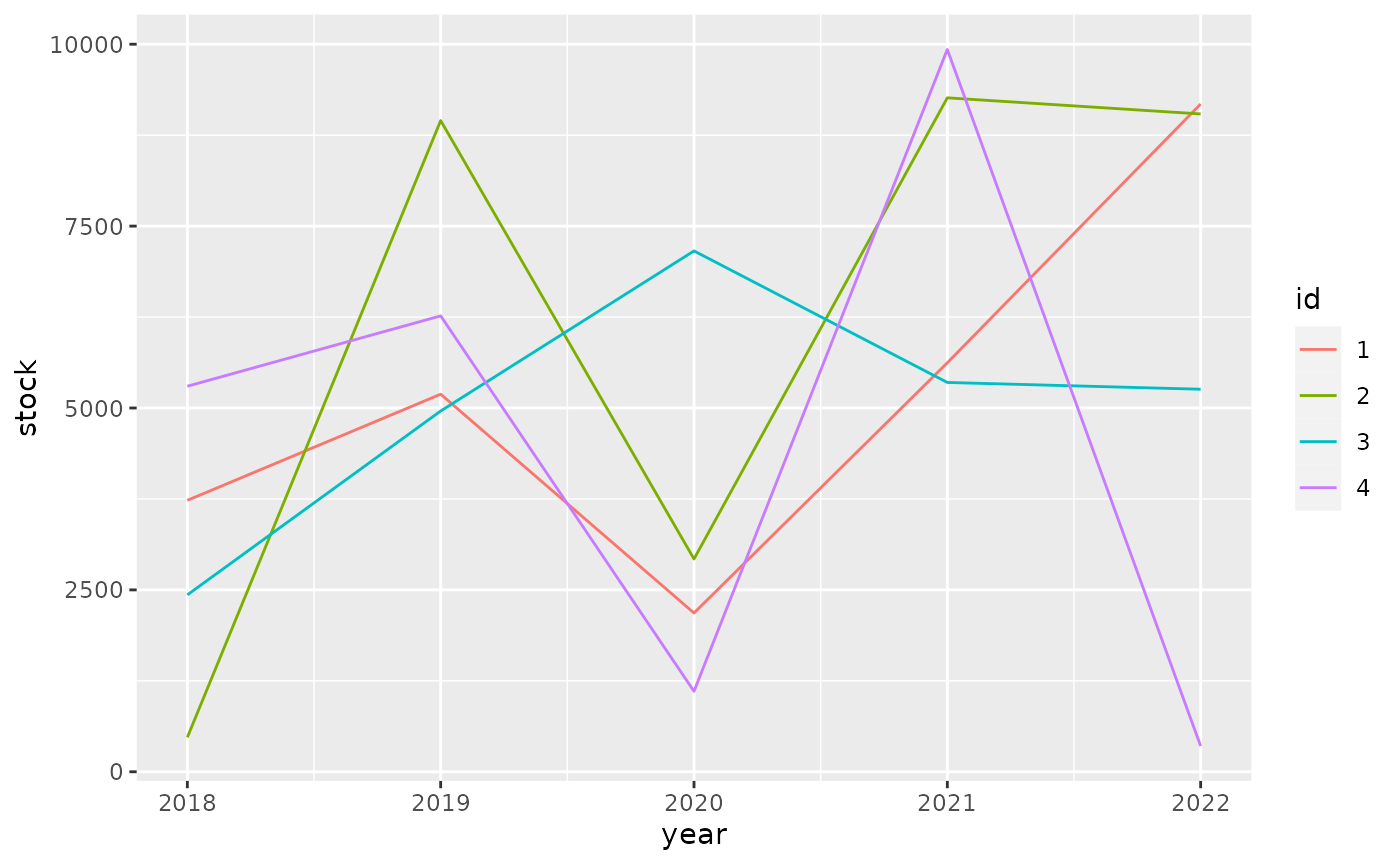
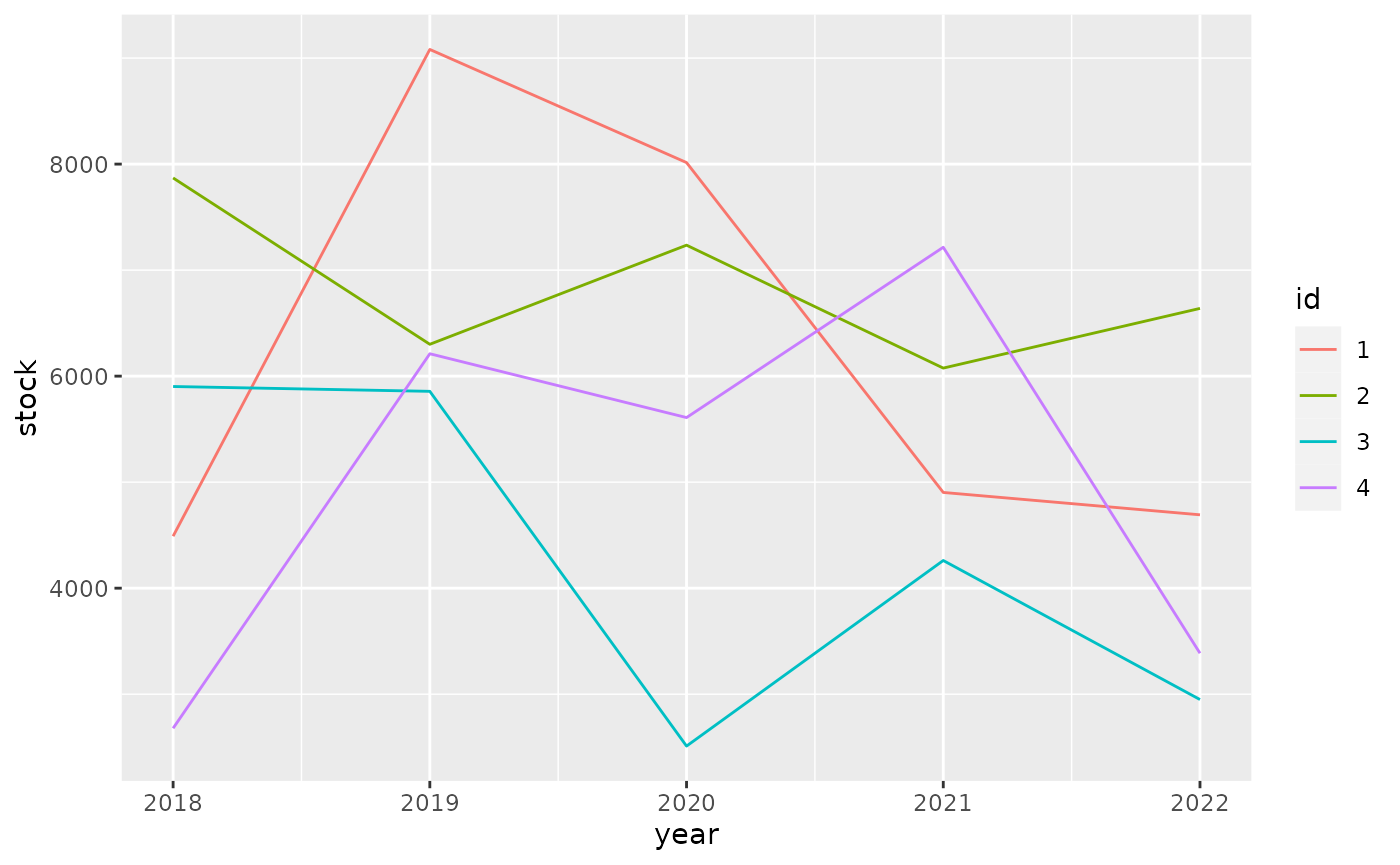
Built site for tibble: 3.1.6.9000@e9a0243

diff --git a/dev/articles/formats.html b/dev/articles/formats.html
@@ -227,10 +227,10 @@
 <span class="co">#&gt; <span style="color: #949494;"># A tibble: 4 × 6</span></span>
 <span class="co">#&gt;   id       `2018`    `2019`    `2020`    `2021`    `2022`</span>
 <span class="co">#&gt;   <span style="color: #949494; font-style: italic;">&lt;fct&gt;</span> <span style="color: #949494; font-style: italic;">&lt;dbl:fmt&gt;</span> <span style="color: #949494; font-style: italic;">&lt;dbl:fmt&gt;</span> <span style="color: #949494; font-style: italic;">&lt;dbl:fmt&gt;</span> <span style="color: #949494; font-style: italic;">&lt;dbl:fmt&gt;</span> <span style="color: #949494; font-style: italic;">&lt;dbl:fmt&gt;</span></span>
-<span class="co">#&gt; <span style="color: #BCBCBC;">1</span> 1     $3,730.65 $5,189.50 $2,182.31 $5,621.55 $9,178.05</span>
-<span class="co">#&gt; <span style="color: #BCBCBC;">2</span> 2       $473.48 $8,950.52 $2,924.99 $9,263.13 $9,041.52</span>
-<span class="co">#&gt; <span style="color: #BCBCBC;">3</span> 3     $2,431.60 $4,958.64 $7,158.85 $5,350.99 $5,257.78</span>
-<span class="co">#&gt; <span style="color: #BCBCBC;">4</span> 4     $5,299.11 $6,266.26 $1,105.99 $9,928.19   $353.15</span></code></pre></div>
+<span class="co">#&gt; <span style="color: #BCBCBC;">1</span> 1     $4,490.23 $9,081.51 $8,014.47 $4,903.00 $4,692.05</span>
+<span class="co">#&gt; <span style="color: #BCBCBC;">2</span> 2     $7,869.57 $6,300.37 $7,235.31 $6,075.85 $6,638.94</span>
+<span class="co">#&gt; <span style="color: #BCBCBC;">3</span> 3     $5,902.15 $5,856.66 $2,510.61 $4,261.09 $2,949.51</span>
+<span class="co">#&gt; <span style="color: #BCBCBC;">4</span> 4     $2,678.64 $6,211.20 $5,609.19 $7,215.65 $3,386.32</span></code></pre></div>
 <p>For ggplot2 we need to do <a href="https://github.com/tidyverse/ggplot2/pull/4065" class="external-link">some work</a> to show apply the formatting to the scales.</p>
 <div class="sourceCode" id="cb6"><pre class="downlit sourceCode r">
 <code class="sourceCode R"><span class="kw"><a href="https://rdrr.io/r/base/library.html" class="external-link">library</a></span><span class="op">(</span><span class="va"><a href="https://ggplot2.tidyverse.org" class="external-link">ggplot2</a></span><span class="op">)</span>
@@ -241,10 +241,10 @@
   <span class="fu"><a href="https://ggplot2.tidyverse.org/reference/geom_path.html" class="external-link">geom_line</a></span><span class="op">(</span><span class="op">)</span></code></pre></div>
 <p><img src="formats_files/figure-html/unnamed-chunk-7-1.png" width="700"></p>
 <p>It pays off to specify formatting very early in the process. The diagram below shows the principal stages of data analysis and exploration from “R for data science”.</p>
-<div id="htmlwidget-1f76199180970bfbce25" style="width:700px;height:432.632880098888px;" class="DiagrammeR html-widget"></div>
-<script type="application/json" data-for="htmlwidget-1f76199180970bfbce25">{"x":{"diagram":"graph TD\n  Import --> Tidy\n  Tidy --> Transform\n  Transform --> Visualize\n  Visualize --> Communicate\n  Visualize --> Model\n  Model -.-> Transform"},"evals":[],"jsHooks":[]}</script><p>The subsequent diagram adds data formats, communication options, and explicit data formatting. The original r4ds transitions are highlighted in bold. There are two principal options where to apply formatting for results: right before communicating them, or right after importing.</p>
-<div id="htmlwidget-a101957b73aeab91c4be" style="width:700px;height:432.632880098888px;" class="DiagrammeR html-widget"></div>
-<script type="application/json" data-for="htmlwidget-a101957b73aeab91c4be">{"x":{"diagram":"graph TD\n  .csv --> Import\n  API --> Import\n  DBI --> Import\n  dbplyr --> Import\n  Import -.-> Format[Format for analysis]\n  Format -.-> Tidy\n\n  subgraph r4ds\n  Import ==> Tidy\n  Tidy ==> Transform\n  Transform ==> Visualize\n  Visualize ==> Model\n  Model -.-> Transform\n  Visualize ==> Communicate\n  end\n\n  Visualize -.-> FormatComm[Format for communication]\n  FormatComm -.-> Communicate\n\n  FormatComm -- Apply formatting early --> Format\n\n  dbplyr -.-> Tidy\n  dbplyr -.-> Transform\n  dbplyr -.-> Visualize\n\n  Communicate --> gt\n  Communicate --> ggplot2\n  Communicate --> DT\n  Communicate --> plotly"},"evals":[],"jsHooks":[]}</script><p>Applying formatting early in the process gives the added benefit of showing the data in a useful format during the “Tidy”, “Transform”, and “Visualize” stages. For this to be useful, we need to ensure that the formatting options applied early:</p>
+<div id="htmlwidget-58327e3f828d40aa798c" style="width:700px;height:432.632880098888px;" class="DiagrammeR html-widget"></div>
+<script type="application/json" data-for="htmlwidget-58327e3f828d40aa798c">{"x":{"diagram":"graph TD\n  Import --> Tidy\n  Tidy --> Transform\n  Transform --> Visualize\n  Visualize --> Communicate\n  Visualize --> Model\n  Model -.-> Transform"},"evals":[],"jsHooks":[]}</script><p>The subsequent diagram adds data formats, communication options, and explicit data formatting. The original r4ds transitions are highlighted in bold. There are two principal options where to apply formatting for results: right before communicating them, or right after importing.</p>
+<div id="htmlwidget-d8dcf923c1b49aacdd8b" style="width:700px;height:432.632880098888px;" class="DiagrammeR html-widget"></div>
+<script type="application/json" data-for="htmlwidget-d8dcf923c1b49aacdd8b">{"x":{"diagram":"graph TD\n  .csv --> Import\n  API --> Import\n  DBI --> Import\n  dbplyr --> Import\n  Import -.-> Format[Format for analysis]\n  Format -.-> Tidy\n\n  subgraph r4ds\n  Import ==> Tidy\n  Tidy ==> Transform\n  Transform ==> Visualize\n  Visualize ==> Model\n  Model -.-> Transform\n  Visualize ==> Communicate\n  end\n\n  Visualize -.-> FormatComm[Format for communication]\n  FormatComm -.-> Communicate\n\n  FormatComm -- Apply formatting early --> Format\n\n  dbplyr -.-> Tidy\n  dbplyr -.-> Transform\n  dbplyr -.-> Visualize\n\n  Communicate --> gt\n  Communicate --> ggplot2\n  Communicate --> DT\n  Communicate --> plotly"},"evals":[],"jsHooks":[]}</script><p>Applying formatting early in the process gives the added benefit of showing the data in a useful format during the “Tidy”, “Transform”, and “Visualize” stages. For this to be useful, we need to ensure that the formatting options applied early:</p>
 <ul>
 <li>give a good user experience for analysis
 <ul>

diff --git a/dev/articles/types.html b/dev/articles/types.html
@@ -357,8 +357,8 @@
 <span class="co">#&gt; $ `named list`  <span style="color: #949494; font-style: italic;">&lt;named list&gt;</span> 1</span>
 <span class="co">#&gt; $ factor        <span style="color: #949494; font-style: italic;">&lt;fct&gt;</span> A</span>
 <span class="co">#&gt; $ ordered       <span style="color: #949494; font-style: italic;">&lt;ord&gt;</span> a</span>
-<span class="co">#&gt; $ Date          <span style="color: #949494; font-style: italic;">&lt;date&gt;</span> 2021-12-24</span>
-<span class="co">#&gt; $ POSIXt        <span style="color: #949494; font-style: italic;">&lt;dttm&gt;</span> 2021-12-24 10:22:57</span>
+<span class="co">#&gt; $ Date          <span style="color: #949494; font-style: italic;">&lt;date&gt;</span> 2021-12-28</span>
+<span class="co">#&gt; $ POSIXt        <span style="color: #949494; font-style: italic;">&lt;dttm&gt;</span> 2021-12-28 06:28:53</span>
 <span class="co">#&gt; $ difftime      <span style="color: #949494; font-style: italic;">&lt;drtn&gt;</span> 1 secs</span>
 <span class="co">#&gt; $ hms           <span style="color: #949494; font-style: italic;">&lt;time&gt;</span> 00:00:01</span>
 <span class="co">#&gt; $ integer64     <span style="color: #949494; font-style: italic;">&lt;int64&gt;</span> 10000000000</span>
@@ -394,7 +394,7 @@
 <span class="co">#&gt;             "sym"</span>
 <span class="co">#&gt;         }, typeof(x))</span>
 <span class="co">#&gt; }</span>
-<span class="co">#&gt; &lt;bytecode: 0x55964eddaf60&gt;</span>
+<span class="co">#&gt; &lt;bytecode: 0x56026f10b460&gt;</span>
 <span class="co">#&gt; &lt;environment: namespace:pillar&gt;</span></code></pre></div>
 </div>
   </div>
